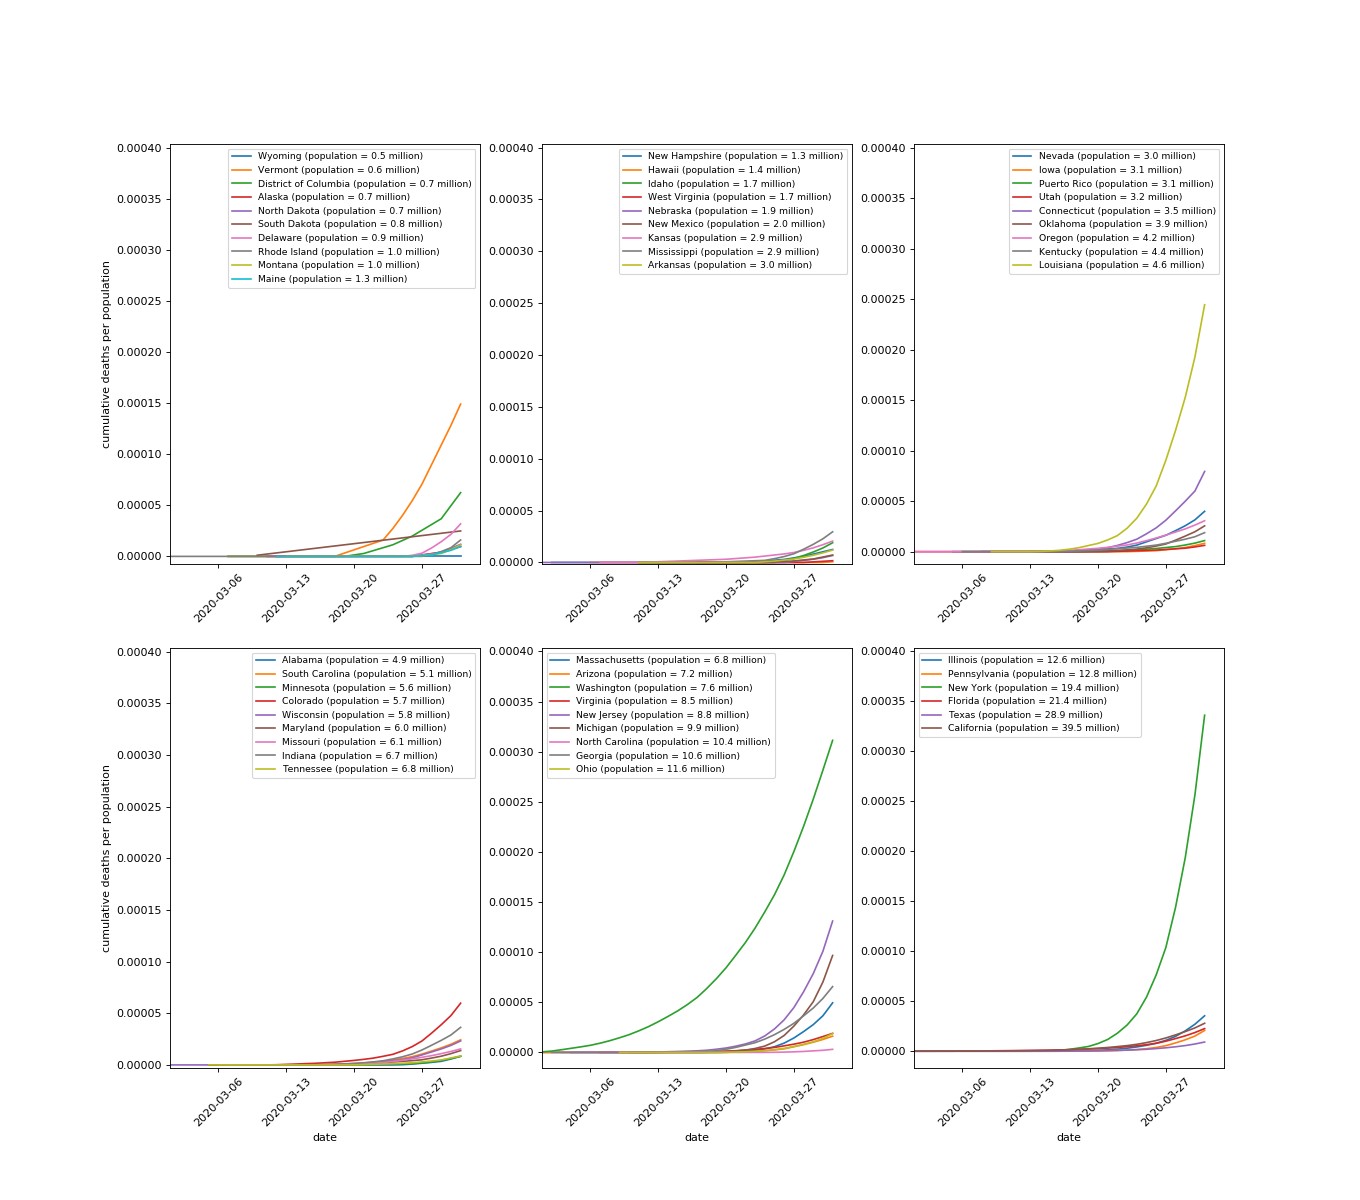
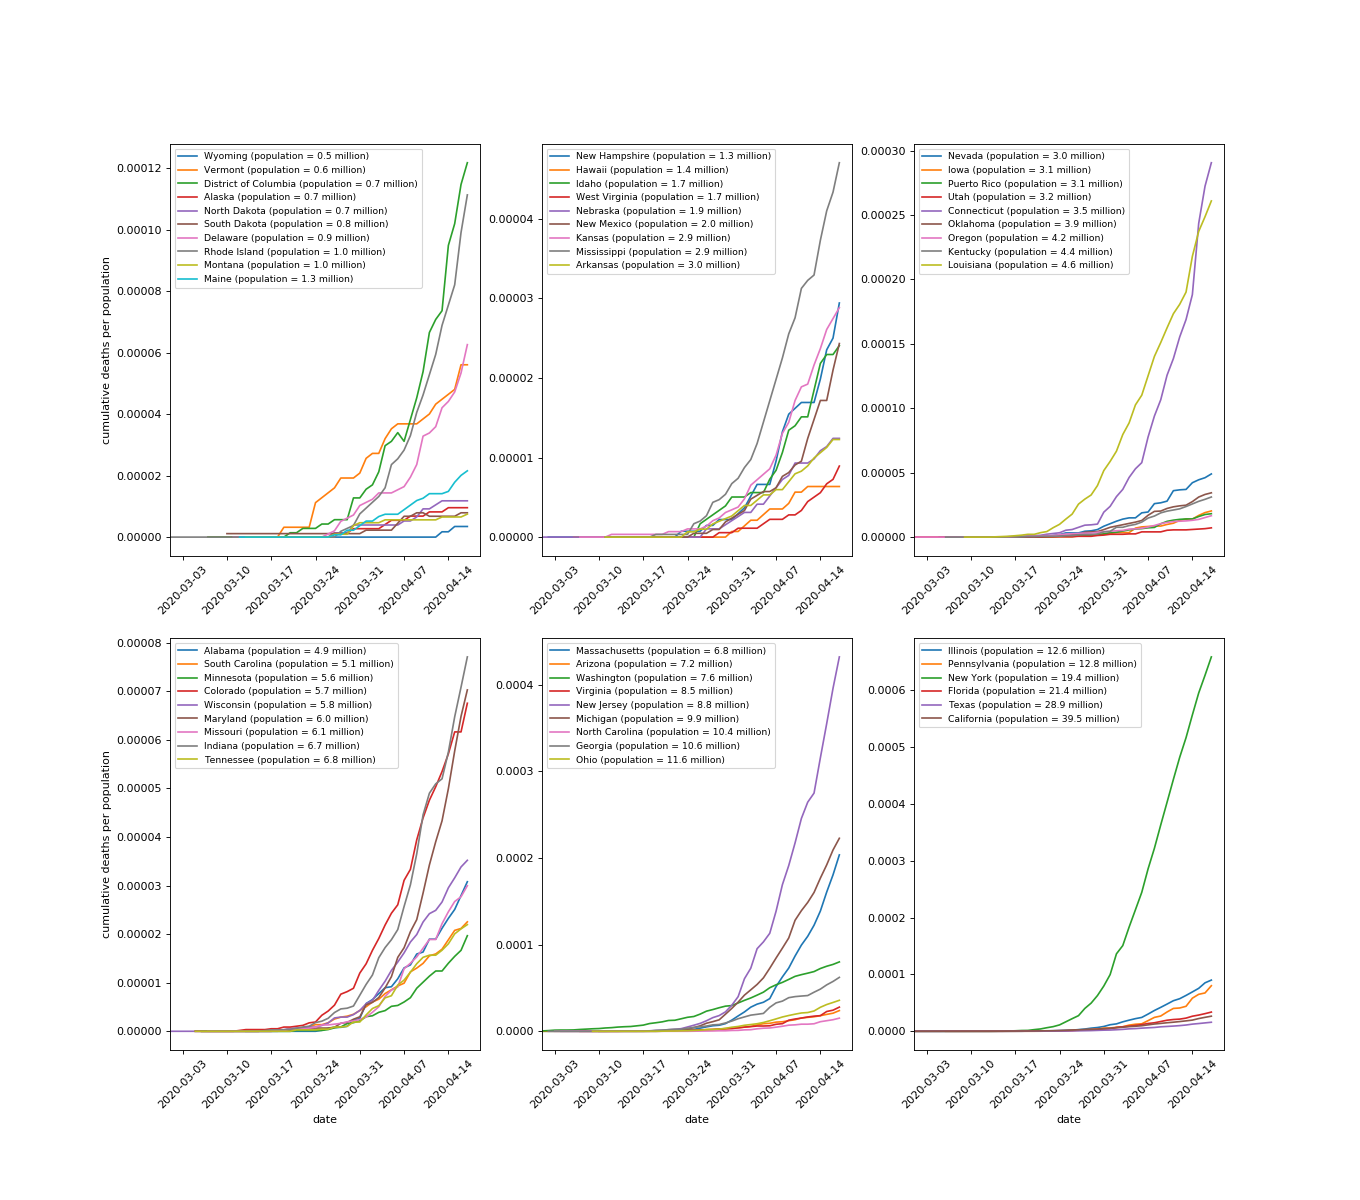
new graphs

diff --git a/mkfigs.py b/mkfigs.py
@@ -72,7 +72,8 @@ for norm in [False, True]:
                 #convert from string to datetime format
                 dates=np.asarray([datetime.date(int(e[:4]),int(e[5:7]),int(e[8:])) for e in dates])
                 #take parameter of interest. can either be cases or deaths
-                to_plot=np.cumsum(np.asarray(cov_state[interest]))
+                #to_plot=np.cumsum(np.asarray(cov_state[interest]))
+                to_plot=(np.asarray(cov_state[interest]))
                 #do we want to normalize
                 if norm:
                     to_plot=to_plot/pop
@@ -107,7 +108,7 @@ for norm in [False, True]:
             for i in range(n):
                 i=i+1
                 ax=plt.subplot(2,np.ceil(n/2),i)    
-                ax.set_ylim(top= most*1.2)
+                #ax.set_ylim(top= most*1.2)
                 ax.set_xlim(left=datetime.date(2020,3,1),right=datetime.date.today())
             
             #plt.show()
